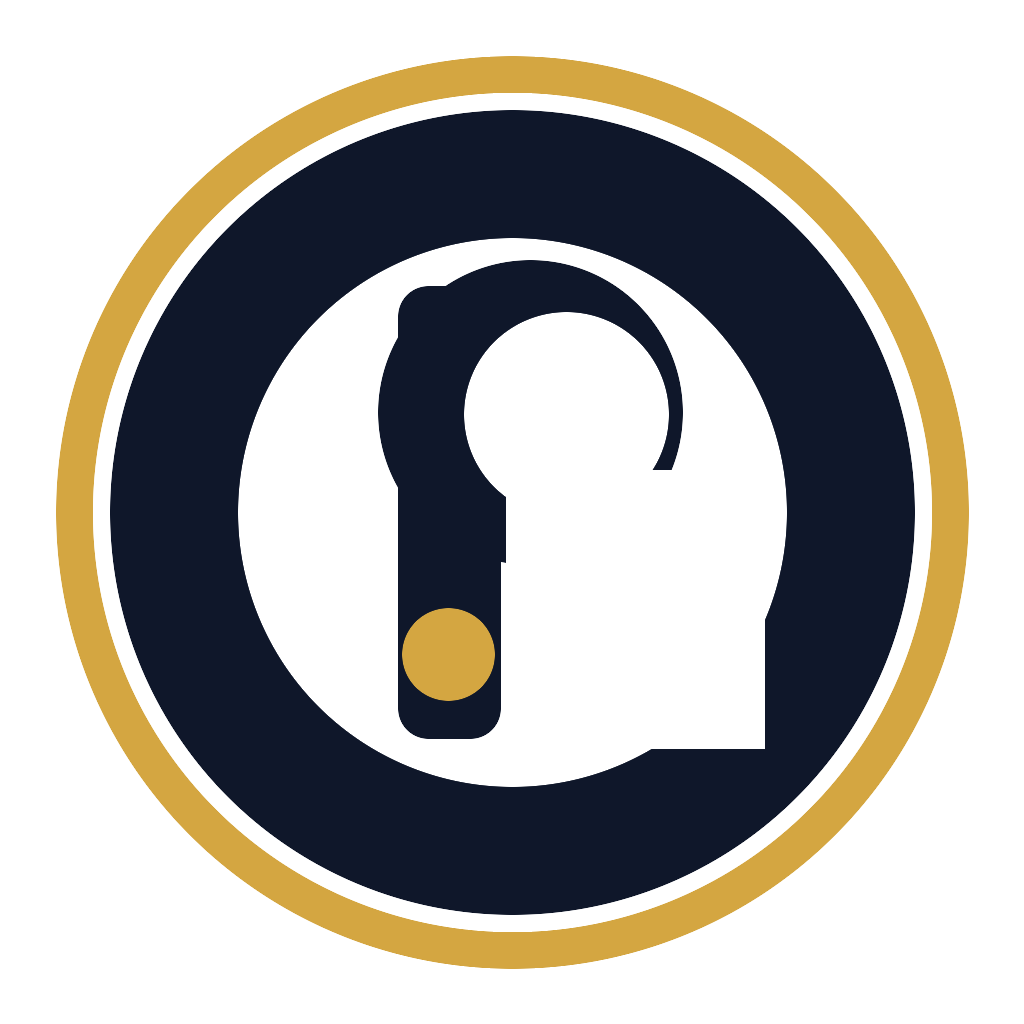
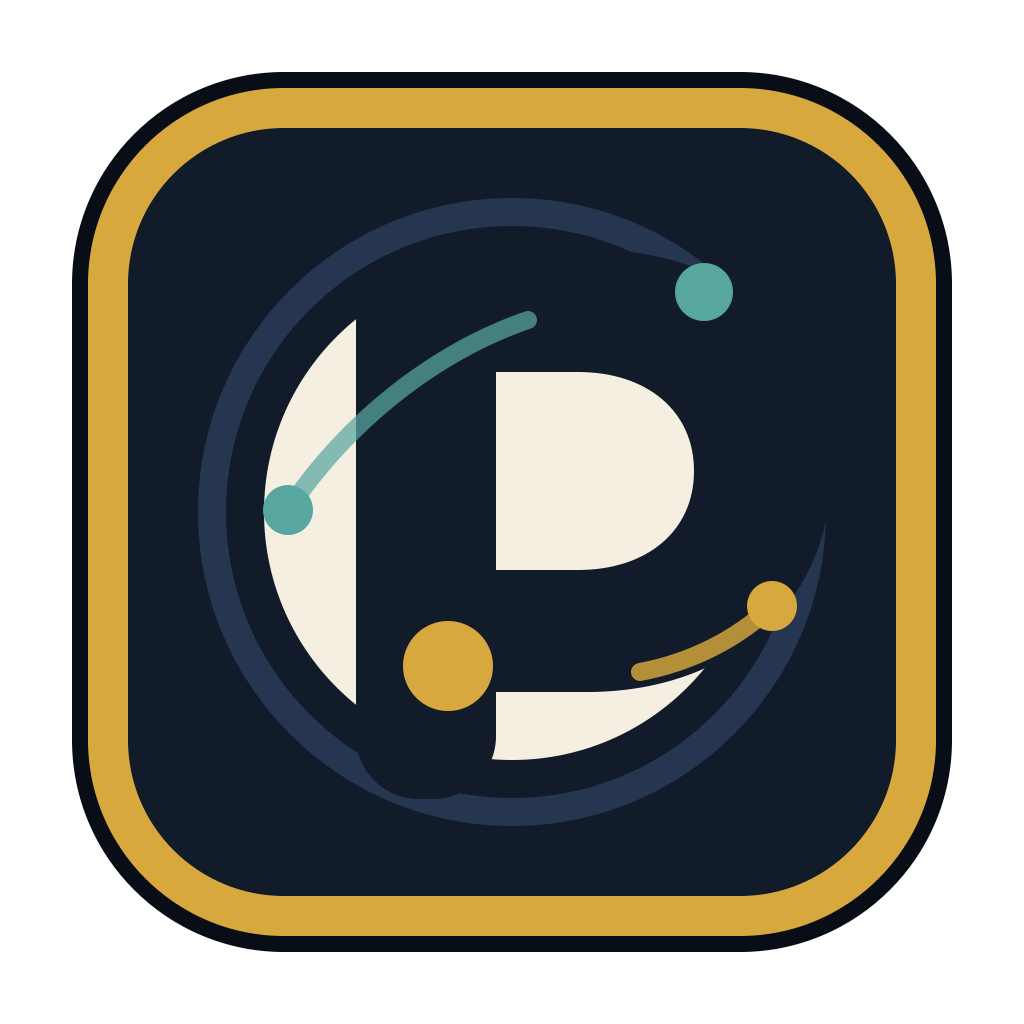
fix(readme): refresh constrained emblem
Regenerates the README emblem and constrains its display size. Fixes #64.

diff --git a/apps/web-preview/src/redesign-assets.test.ts b/apps/web-preview/src/redesign-assets.test.ts
@@ -9,6 +9,13 @@ type SourceFile = {
   readonly path: string;
 };
 
+type ReadmeImage = {
+  readonly alt: string;
+  readonly height: string;
+  readonly src: string;
+  readonly width: string;
+};
+
 const repoRoot = fileURLToPath(new URL("../../..", import.meta.url));
 const gradientPattern =
   /\b(?:linear-gradient|radial-gradient|repeating-linear-gradient)\s*\(/giu;
@@ -21,6 +28,22 @@ const TauriConfigSchema = z.object({
 
 function readWorkspaceFile(relativePath: string): string {
   return readFileSync(join(repoRoot, relativePath), "utf8");
+}
+
+function readHtmlAttribute(attributes: string, name: string): string {
+  return attributes.match(new RegExp(`\\b${name}="([^"]+)"`, "iu"))?.[1] ?? "";
+}
+
+function listReadmeImages(content: string): ReadmeImage[] {
+  return Array.from(content.matchAll(/<img\b([^>]*)>/giu), (match) => {
+    const attributes = match[1] ?? "";
+    return {
+      alt: readHtmlAttribute(attributes, "alt"),
+      height: readHtmlAttribute(attributes, "height"),
+      src: readHtmlAttribute(attributes, "src"),
+      width: readHtmlAttribute(attributes, "width"),
+    };
+  });
 }
 
 function listFiles(startPath: string, extension: string): SourceFile[] {
@@ -71,23 +94,21 @@ describe("redesign asset and style constraints", () => {
     expect(gradientHits).toEqual([]);
   });
 
-  it("references the generated emblem image in both READMEs instead of the old abstract artwork", () => {
+  it("references a constrained emblem image in both READMEs instead of the old abstract artwork", () => {
     // Given: README branding is part of the redesign acceptance criteria.
     const readmePaths = ["README.md", "README.ko.md"] as const;
-    const emblemPath = "assets/readme/plutus-emblem.png";
+    const emblemPath = "./assets/readme/plutus-emblem.png";
+    const requiredDisplaySize = {
+      height: "168",
+      width: "168",
+    } as const;
     const bannedAltPattern = /\b(?:abstract|chart|market|workspace)\b/iu;
     const requiredAltPattern = /\b(?:emblem|icon)\b/iu;
 
     // When/Then: the old screenshot path is gone and the replacement image exists.
     for (const readmePath of readmePaths) {
       const readme = readWorkspaceFile(readmePath);
-      const readmeImages = Array.from(
-        readme.matchAll(/<img alt="([^"]+)" src="\.\/([^"]+)" \/>/gu),
-        (match) => ({
-          alt: match[1] ?? "",
-          src: match[2] ?? "",
-        }),
-      );
+      const readmeImages = listReadmeImages(readme);
       const emblemImage = readmeImages.find(({ src }) => src === emblemPath);
 
       expect(
@@ -95,12 +116,18 @@ describe("redesign asset and style constraints", () => {
         `${readmePath} should drop the old README artwork paths`,
       ).not.toEqual(
         expect.arrayContaining([
-          "assets/readme/plutus-hero.png",
-          "assets/readme/plutus-abstract.png",
+          "./assets/readme/plutus-hero.png",
+          "./assets/readme/plutus-abstract.png",
         ]),
       );
-      expect(emblemImage?.alt, `${readmePath} should reference the emblem asset`)
-        .toBeDefined();
+      expect(
+        emblemImage?.alt,
+        `${readmePath} should reference the emblem asset`,
+      ).toBeDefined();
+      expect(
+        emblemImage,
+        `${readmePath} should constrain emblem display`,
+      ).toMatchObject(requiredDisplaySize);
       expect(emblemImage?.alt ?? "").toMatch(requiredAltPattern);
       expect(emblemImage?.alt ?? "").not.toMatch(bannedAltPattern);
     }

diff --git a/README.ko.md b/README.ko.md
@@ -13,7 +13,7 @@
 </p>
 
 <p align="center">
-  <img alt="Plutus product emblem icon" src="./assets/readme/plutus-emblem.png" />
+  <img alt="Plutus product emblem icon" src="./assets/readme/plutus-emblem.png" width="168" height="168" />
 </p>
 
 Plutus는 macOS를 중심으로 동작하는 로컬 우선 투자 리서치 워크스페이스입니다. Codex 기반 멀티 에이전트 팀이 시장 데이터 수집, 포트폴리오 점검, 백테스트, 리스크 리뷰, 보고서 작성을 나누어 수행하고, 사용자는 그 결과를 근거와 함께 검토합니다.

diff --git a/README.md b/README.md
@@ -13,7 +13,7 @@
 </p>
 
 <p align="center">
-  <img alt="Plutus product emblem icon" src="./assets/readme/plutus-emblem.png" />
+  <img alt="Plutus product emblem icon" src="./assets/readme/plutus-emblem.png" width="168" height="168" />
 </p>
 
 Plutus is a local-first trading research workspace centered on a macOS host. It coordinates Codex-powered specialist agents for market research, portfolio review, backtesting, risk analysis, and report generation, while keeping the user in control of the final decision.